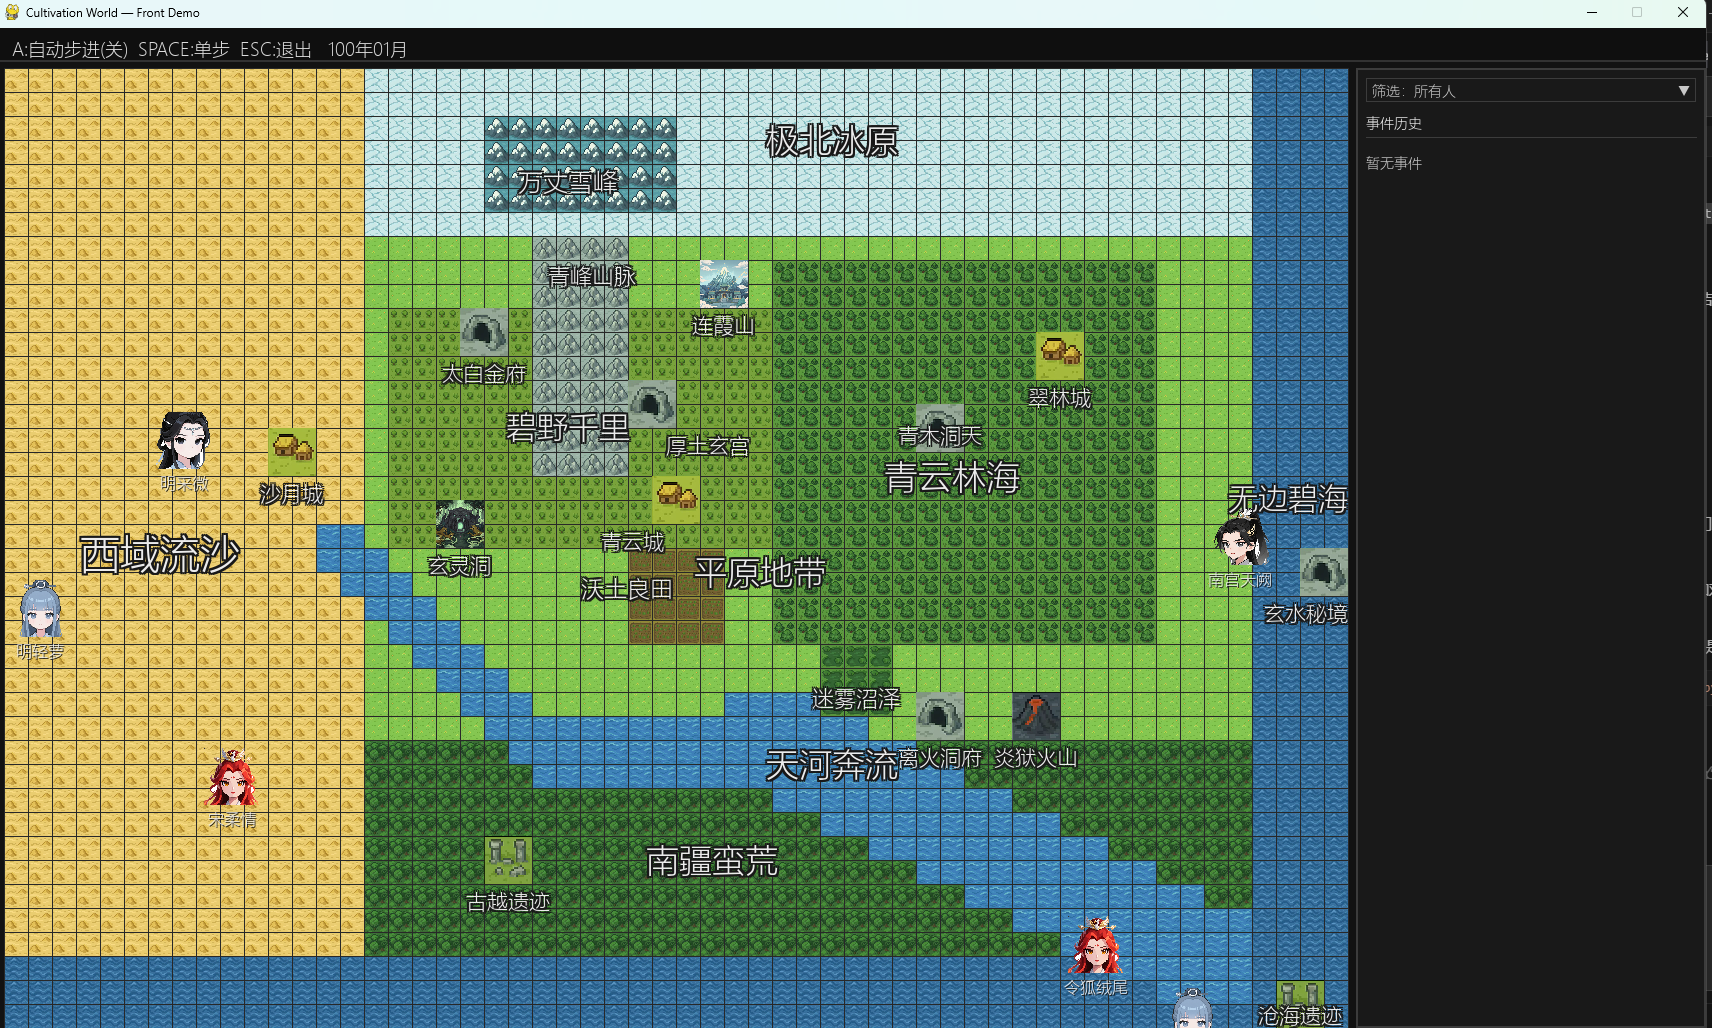
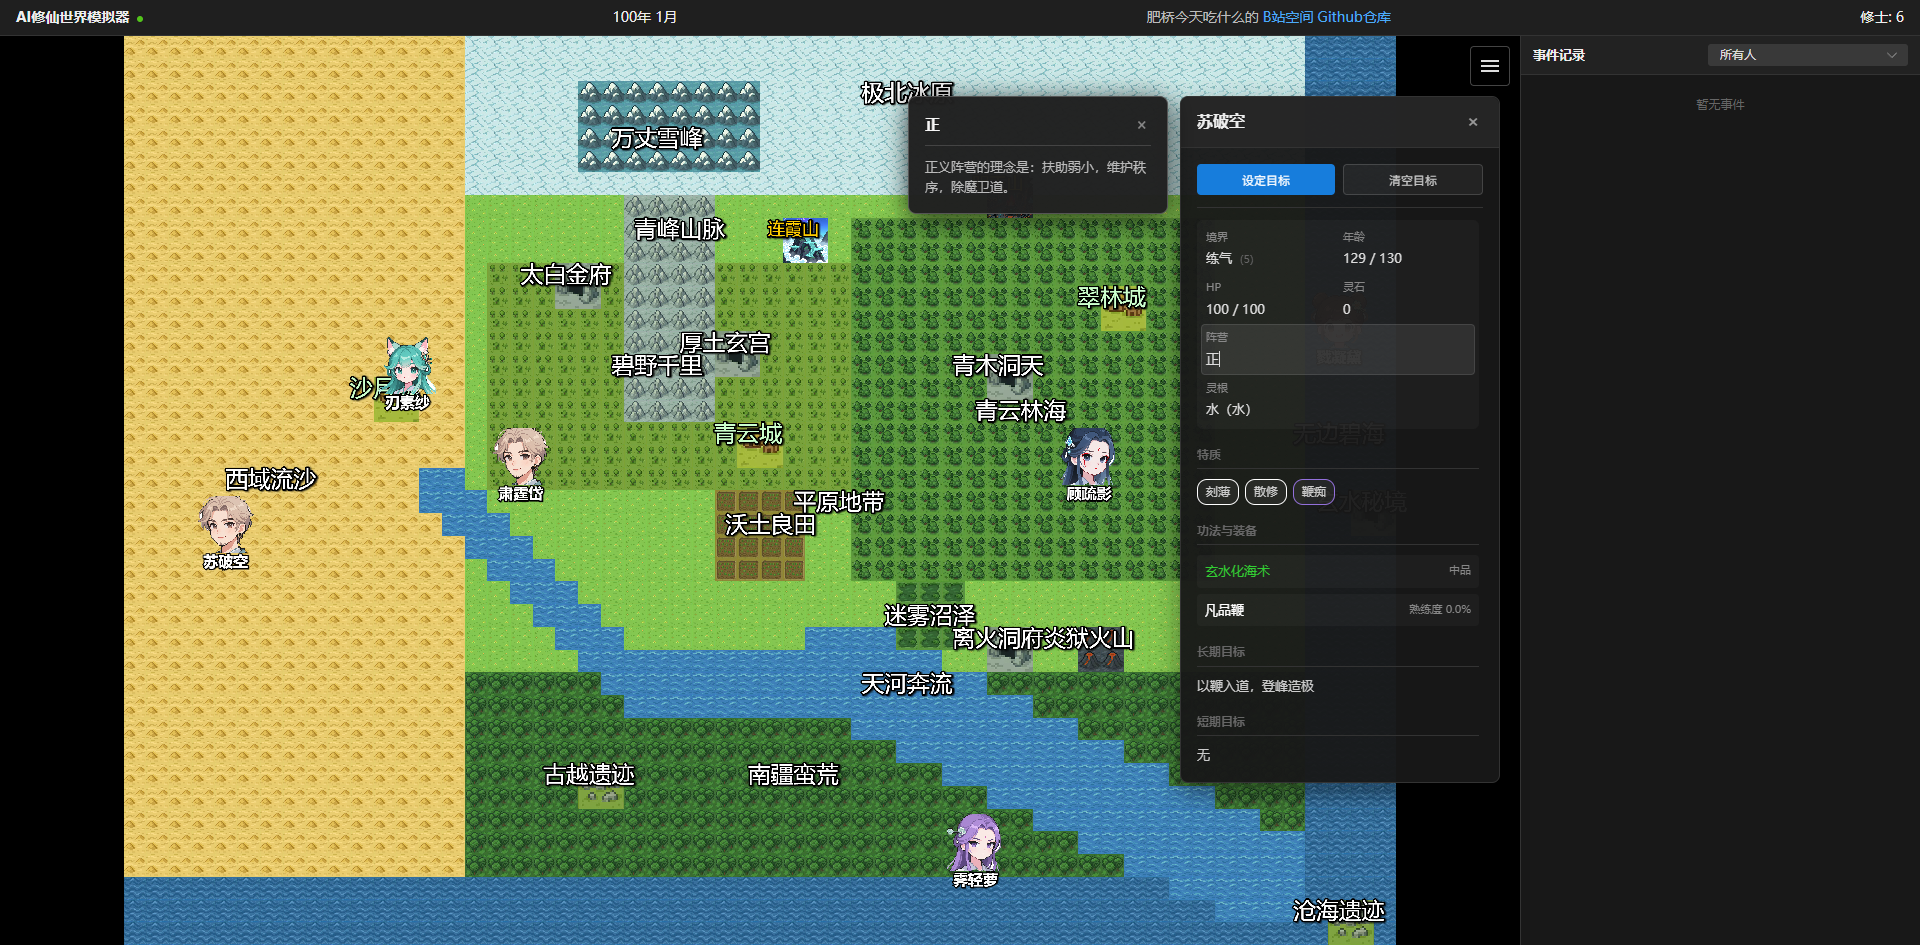
refactor

diff --git a/web/src/components/game/panels/info/AvatarDetail.vue b/web/src/components/game/panels/info/AvatarDetail.vue
@@ -72,22 +72,28 @@ async function handleClearObjective() {
       <div class="stats-grid">
         <StatItem label="境界" :value="data.realm" :sub-value="data.level" />
         <StatItem label="年龄" :value="formatAge(data.age, data.lifespan)" />
+        
         <StatItem label="HP" :value="formatHp(data.hp.cur, data.hp.max)" />
-        <StatItem label="灵石" :value="data.magic_stone" />
+        <StatItem label="MP" :value="formatHp(data.mp.cur, data.mp.max)" />
         
         <StatItem 
           label="阵营" 
           :value="data.alignment" 
-          full-width 
           :on-click="() => showDetail(data.alignment_detail)"
+        />
+        <StatItem 
+          label="宗门" 
+          :value="data.sect?.name || '散修'" 
+          :sub-value="data.sect?.rank"
+          :on-click="data.sect ? () => showDetail(data.sect) : undefined"
         />
         
         <StatItem 
           label="灵根" 
           :value="data.root" 
-          full-width 
           :on-click="() => showDetail(data.root_detail)"
         />
+        <StatItem label="灵石" :value="data.magic_stone" />
       </div>
 
       <!-- Thinking -->
@@ -109,12 +115,6 @@ async function handleClearObjective() {
           v-if="data.technique" 
           :item="data.technique" 
           @click="showDetail(data.technique)" 
-        />
-        <EntityRow 
-          v-if="data.sect" 
-          :item="data.sect" 
-          :meta="data.sect.rank"
-          @click="showDetail(data.sect)" 
         />
         <EntityRow 
           v-if="data.weapon" 

diff --git a/web/src/components/game/panels/info/InfoPanelContainer.vue b/web/src/components/game/panels/info/InfoPanelContainer.vue
@@ -1,7 +1,6 @@
 <script setup lang="ts">
 import { computed, ref, onMounted, onUnmounted, watch } from 'vue';
-import { useUiStore } from '@/stores/ui';
-import type { AvatarDetail, RegionDetail } from '@/types/core';
+import { useUiStore } from '../../../../stores/ui';
 
 // Sub-components
 import AvatarDetailView from './AvatarDetail.vue';

diff --git a/web/src/utils/formatters/number.ts b/web/src/utils/formatters/number.ts
@@ -2,12 +2,6 @@
  * 格式化工具
  */
 
-export function formatNumber(num: number): string {
-  if (num >= 10000) {
-    return (num / 10000).toFixed(1) + '万';
-  }
-  return num.toString();
-}
 
 export function formatHp(current: number, max: number): string {
   return `${Math.floor(current)} / ${max}`;

diff --git a/src/classes/avatar.py b/src/classes/avatar.py
@@ -535,23 +535,6 @@ class Avatar(AvatarSaveMixin, AvatarLoadMixin):
         """
         self.age.update_age(current_month_stamp, self.birth_month_stamp)
     
-    def get_age_info(self) -> dict:
-        """
-        获取年龄相关信息
-        
-        返回:
-            包含年龄、期望寿命、死亡概率等信息的字典
-        """
-        current_age, expected_lifespan = self.age.get_lifespan_progress()
-        death_probability = self.age.get_death_probability()
-        
-        return {
-            "current_age": round(current_age, 2),
-            "expected_lifespan": expected_lifespan,
-            "is_elderly": self.age.is_elderly(),
-            "death_probability": round(death_probability, 4),
-            "realm": self.cultivation_progress.realm.value
-        }
 
     def is_in_region(self, region: Region|None) -> bool:
         current_region = self.tile.region
@@ -640,25 +623,6 @@ class Avatar(AvatarSaveMixin, AvatarLoadMixin):
         if to_sidebar:
             self._pending_events.append(event)
 
-    def get_action_space_str(self) -> str:
-        action_space = self.get_action_space()
-        action_space_str = json.dumps(action_space, ensure_ascii=False)
-        return action_space_str
-    
-    def get_action_space(self) -> list[dict]:
-        """
-        获取动作空间
-        """
-        from src.classes.actions import ALL_ACTUAL_ACTION_NAMES
-        actual_actions = [self.create_action(action_cls_name) for action_cls_name in ALL_ACTUAL_ACTION_NAMES]
-        doable_actions: list[Action] = []
-        for action in actual_actions:
-            # 用 can_start 的无参形式，用于“是否在动作空间中显示”
-            ok, _reason = action.can_start()
-            if ok:
-                doable_actions.append(action)
-        action_space = [action.name for action in doable_actions]
-        return action_space
 
     def get_expanded_info(
         self, 
@@ -827,13 +791,6 @@ class Avatar(AvatarSaveMixin, AvatarLoadMixin):
         from src.classes.relations import clear_relation
         clear_relation(self, other)
 
-    def _get_relations_summary_str(self, max_count: int = 8) -> str:
-        entries: list[str] = []
-        for other in self.relations.keys():
-            entries.append(self.get_other_avatar_info(other))
-        if not entries:
-            return "无"
-        return "，".join(entries[:max_count])
 
     def get_co_region_avatars(self, avatars: List["Avatar"]) -> List["Avatar"]:
         """

diff --git a/src/utils/effect_desc.py b/src/utils/effect_desc.py
@@ -20,12 +20,22 @@ EFFECT_DESC_MAP = {
     "extra_escape_success_rate": "逃跑成功率",
     "extra_observation_radius": "感知范围",
     "extra_move_step": "移动步长",
+    "legal_actions": "特殊能力",
+}
+
+ACTION_DESC_MAP = {
+    "DualCultivation": "双修",
+    "DevourMortals": "吞噬凡人",
 }
 
 def format_value(key: str, value: Any) -> str:
     """
     格式化效果数值
     """
+    if key == "legal_actions" and isinstance(value, list):
+        actions = [ACTION_DESC_MAP.get(str(a), str(a)) for a in value]
+        return "、".join(actions)
+
     if isinstance(value, (int, float)):
         # 处理百分比类型的字段
         if "rate" in key or "probability" in key or "chance" in key or "multiplier" in key or "gain" in key:
@@ -69,10 +79,13 @@ def format_effects_to_text(effects: dict[str, Any] | list[dict[str, Any]]) -> st
         # 跳过 eval 表达式或者无法解析的 key，或者直接显示 key
         name = EFFECT_DESC_MAP.get(k, k)
         
-        # 如果是 eval 表达式（字符串形式）
-        if isinstance(v, str) and v.startswith("eval("):
-            # 尝试提取简单的描述，或者显示"特殊效果"
-            val_str = "特殊效果"
+        # 如果是 eval 表达式（字符串形式）或者看起来像代码
+        if isinstance(v, str):
+            if v.startswith("eval(") or "avatar." in v or "//" in v:
+                # 尝试提取简单的描述，或者显示"特殊效果"
+                val_str = "特殊效果（动态）"
+            else:
+                val_str = format_value(k, v)
         else:
             val_str = format_value(k, v)
             

diff --git a/src/classes/technique.py b/src/classes/technique.py
@@ -252,45 +252,8 @@ def get_technique_by_sect(sect) -> Technique:
     return random.choices(candidates, weights=weights, k=1)[0]
 
 
-def get_grade_bonus(grade: TechniqueGrade) -> float:
-    if grade is TechniqueGrade.UPPER:
-        return 0.10
-    if grade is TechniqueGrade.MIDDLE:
-        return 0.05
-    return 0.0
-
-
 def get_suppression_bonus(att_attr: TechniqueAttribute, def_attr: TechniqueAttribute) -> float:
     return 0.10 if def_attr in SUPPRESSION.get(att_attr, set()) else 0.0
-
-
-# 相对品阶优势加成：按“品阶差×步进”的方式计算
-# - 品阶映射：下品=0，中品=1，上品=2
-# - 每级差距步进：5%（最大±10%）
-_GRADE_RANK: dict[TechniqueGrade, int] = {
-    TechniqueGrade.LOWER: 0,
-    TechniqueGrade.MIDDLE: 1,
-    TechniqueGrade.UPPER: 2,
-}
-
-
-def get_grade_advantage_bonus(attacker_grade: Optional[TechniqueGrade], defender_grade: Optional[TechniqueGrade]) -> float:
-    """
-    根据双方品阶差计算进攻方的相对加成：
-    - diff = rank(att) - rank(def)
-    - bonus = 0.05 × diff，夹紧到 [-0.10, 0.10]
-    - 任一为空则视为无加成
-    返回：进攻方概率或伤害的相对加成（可为负）。
-    """
-    if attacker_grade is None or defender_grade is None:
-        return 0.0
-    diff = _GRADE_RANK[attacker_grade] - _GRADE_RANK[defender_grade]
-    bonus = 0.05 * diff
-    if bonus > 0.10:
-        bonus = 0.10
-    if bonus < -0.10:
-        bonus = -0.10
-    return bonus
 
 
 

diff --git a/src/server/main.py b/src/server/main.py
@@ -35,6 +35,8 @@ game_instance = {
     "is_paused": True # 默认启动为暂停状态，等待前端连接唤醒
 }
 
+# 触发配置重载的标记 (technique.csv updated)
+
 # 简易的命令行参数检查 (不使用 argparse 以避免冲突和时序问题)
 IS_DEV_MODE = "--dev" in sys.argv
 
@@ -411,20 +413,6 @@ def get_map():
         "regions": regions_data
     }
 
-@app.post("/api/step")
-async def step_world():
-    """手动触发一帧（一个月）"""
-    sim = game_instance["sim"]
-    if not sim:
-        return {"error": "Sim not initialized"}
-    
-    events = await sim.step()
-    
-    return {
-        "message": "Step executed",
-        "event_count": len(events),
-        "events_sample": [str(e) for e in events[:5]]
-    }
 
 @app.post("/api/control/pause")
 def pause_game():

diff --git a/src/classes/alignment.py b/src/classes/alignment.py
@@ -45,7 +45,7 @@ class Alignment(Enum):
         t = str(text).strip().lower()
         if t in {"正", "righteous", "right"}:
             return Alignment.RIGHTEOUS
-        if t in {"中", "neutral", "middle", "center"}:
+        if t in {"中", "中立", "neutral", "middle", "center"}:
             return Alignment.NEUTRAL
         if t in {"邪", "evil"}:
             return Alignment.EVIL
@@ -54,7 +54,7 @@ class Alignment(Enum):
 
 alignment_strs = {
     Alignment.RIGHTEOUS: "正",
-    Alignment.NEUTRAL: "中",
+    Alignment.NEUTRAL: "中立",
     Alignment.EVIL: "邪",
 }
 
